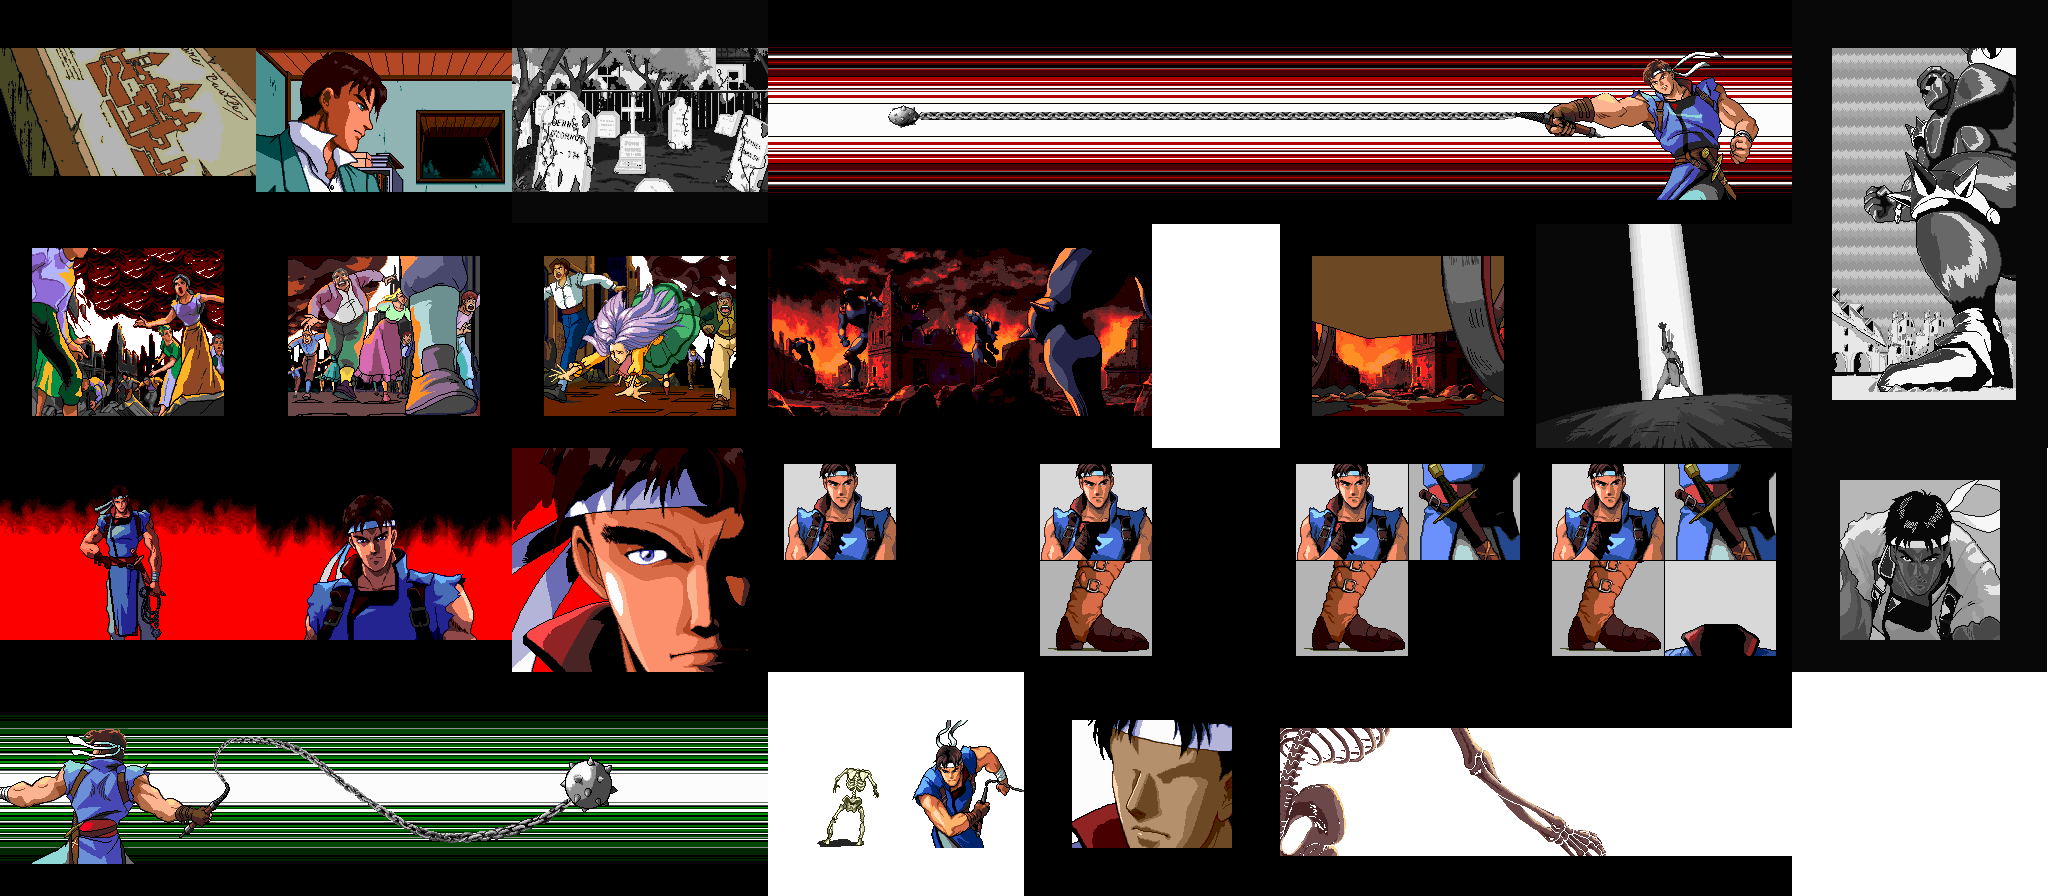
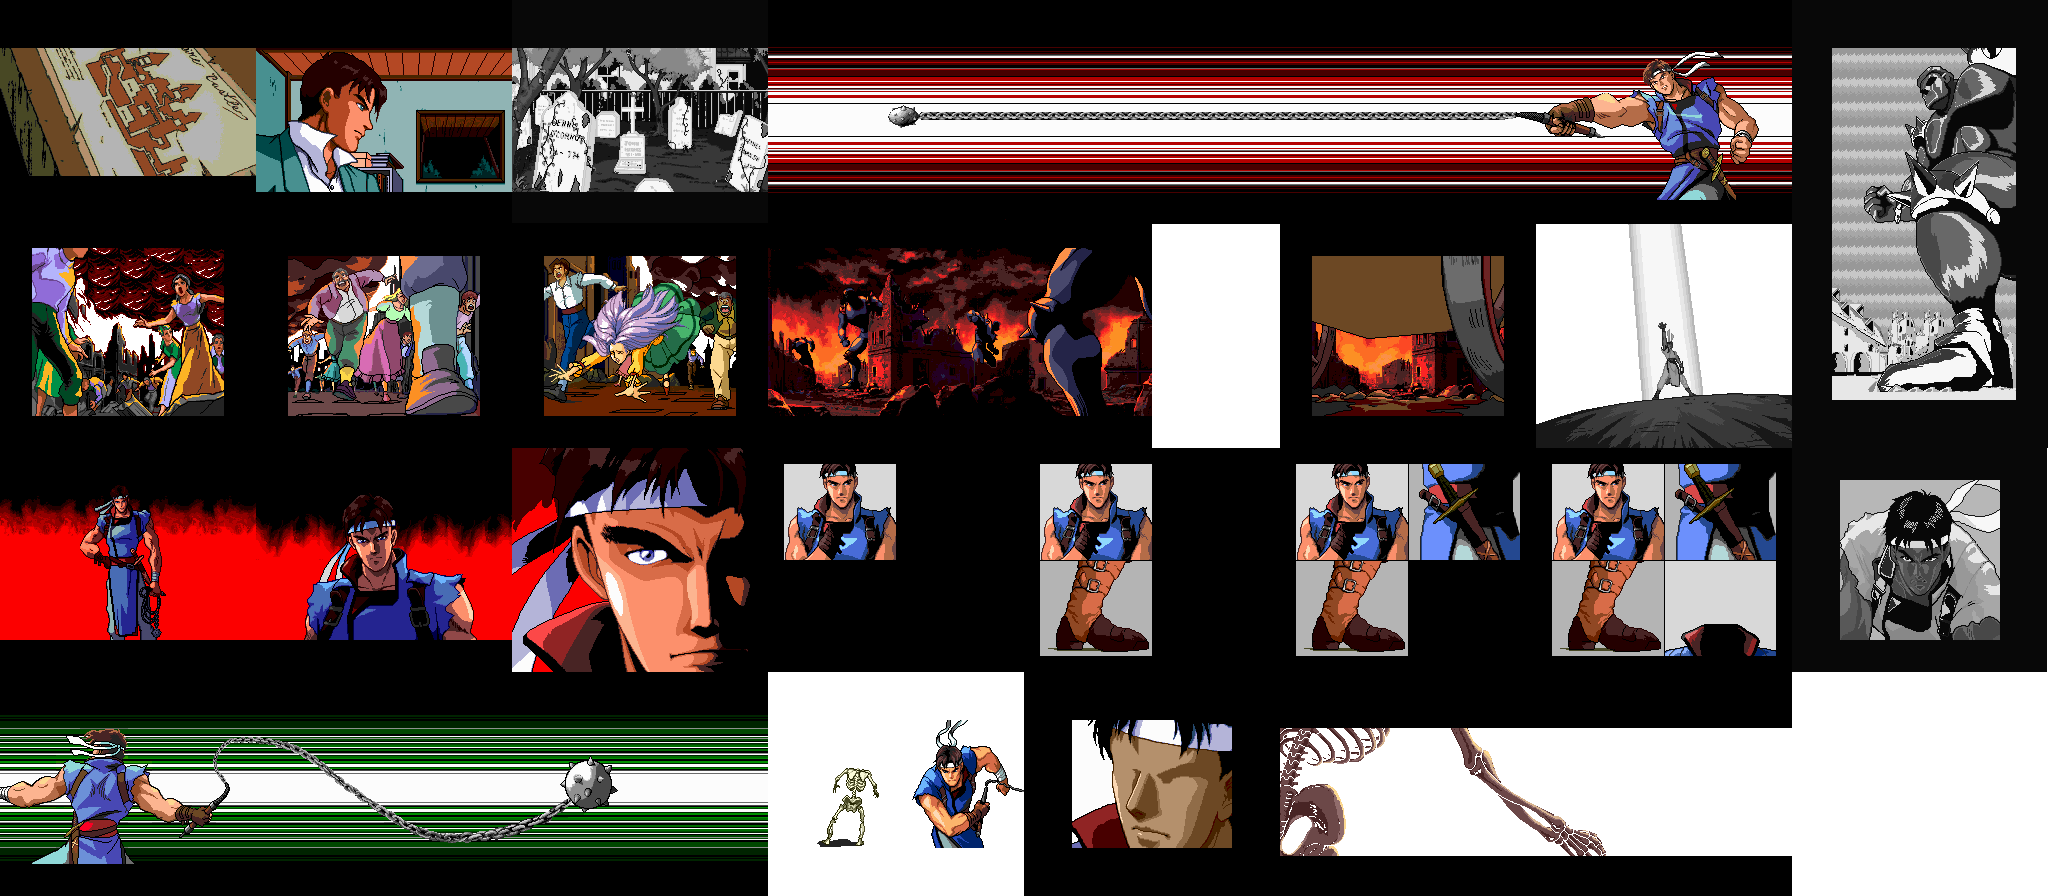
Mejorando un poco la intro

Changed region(s): [[0.75, 0.25, 0.875, 0.4688]]

diff --git a/DraculaX_PC/CoolIntro.cpp b/DraculaX_PC/CoolIntro.cpp
@@ -1,11 +1,18 @@
 #include "CoolIntro.h"
 #include "TextureManager.h"
 #include "Game.h"
+#define TIME_BETWEEN_CROSS_COLOR 64
 
 namespace {
+	const glm::vec2 crossOffsets[2] = {
+		glm::vec2(128,-32), glm::vec2(192,48)
+	};
 	const float redColors[3] = { 72 / 255.f, 108 / 255.f, 144 / 255.f };
 	const float amplitude = 16.f;
 	const float frequency = 5.f;
+	const int crossSpeeds[3] = { 8, 12, 16 };
+	const int crossYlimits[3] = { -76, -128, -176 };
+	bool crossBlack[3] = { false, false, false };
 }
 
 void CoolIntro::initChild()
@@ -427,6 +434,30 @@ void CoolIntro::initChild()
 	introSprites[WHIRLWIND]->setAnimationSpeed(0, 30);
 	introSprites[WHIRLWIND]->animatorX(0, 4, 0.25f, 0.25f, 0.f);
 	introSprites[WHIRLWIND]->changeAnimation(0);
+	introQuads[SMALL_CROSS] = TexturedQuad::createTexturedQuad(glm::vec2(0.75f, 0.5f), glm::vec2(0.8125f, 1.f), *elems, *shader);
+	introQuads[SMALL_CROSS]->setColorPalette(bgPalette);
+	introQuads[SMALL_CROSS]->setNumberPaletteAnimations(1);
+	introQuads[SMALL_CROSS]->setPaletteSpeed(0, 0);
+	introQuads[SMALL_CROSS]->addPaletteKeyframe(0, 0.475f);
+	introQuads[SMALL_CROSS]->changePaletteAnimation(0);
+	introQuads[SMALL_CROSS]->setPosition(glm::vec2(44, -16));
+	introQuads[CROSS] = TexturedQuad::createTexturedQuad(glm::vec2(0.8125f, 0.5f), glm::vec2(0.875f, 1.f), *elems, *shader);
+	introQuads[CROSS]->setColorPalette(bgPalette);
+	introQuads[CROSS]->setNumberPaletteAnimations(1);
+	introQuads[CROSS]->setPaletteSpeed(0, 0);
+	introQuads[CROSS]->addPaletteKeyframe(0, 0.475f);
+	introQuads[CROSS]->changePaletteAnimation(0);
+	introQuads[CROSS]->setPosition(glm::vec2(0, -48));
+	introQuads[BIG_CROSS] = TexturedQuad::createTexturedQuad(glm::vec2(0.875f, 0.5f), glm::vec2(1.f, 1.f), *elems, *shader);
+	introQuads[BIG_CROSS]->setColorPalette(bgPalette);
+	introQuads[BIG_CROSS]->setNumberPaletteAnimations(1);
+	introQuads[BIG_CROSS]->setPaletteSpeed(0, 0);
+	introQuads[BIG_CROSS]->addPaletteKeyframe(0, 0.475f);
+	introQuads[BIG_CROSS]->changePaletteAnimation(0);
+	introQuads[BIG_CROSS]->setPosition(glm::vec2(96, -48));
+	crossColorTimer[0] = 64;
+	crossColorTimer[1] = 16;
+	crossColorTimer[2] = 0;
 	bg.bg = sp;
 	bg.time = 54.f;
 	bg.duration = 7.f;
@@ -615,6 +646,10 @@ void CoolIntro::filmUpdate(int deltaTime)
 		}
 		introSprites[PURPLE_FIRE2]->update(deltaTime);
 		introSprites[WHIRLWIND]->update(deltaTime);
+		for (int i = 0; i < 3; i++)
+		{
+			updateCross(deltaTime, i);
+		}
 	}
 	boltTimer -= deltaTime / 1000.f;
 }
@@ -738,9 +773,14 @@ void CoolIntro::render()
 		}
 		else if (filmId == RICHTER_ULT2)
 		{
+			renderCross(0);
 			film.front().bg->render();
 			introSprites[WHIRLWIND]->render();
 			introSprites[PURPLE_FIRE2]->render();
+			renderCross(1);
+			shader->setUniform1f("paletteIndexOffset", 0.f + crossBlack[2] * 0.5f);
+			introQuads[BIG_CROSS]->render();
+			shader->setUniform1f("paletteIndexOffset", 0.f);
 		}
 		else film.front().bg->render();
 		if (blackScreenAlpha > 0) blackScreen->render();
@@ -750,6 +790,37 @@ void CoolIntro::render()
 float CoolIntro::setEndTime() const
 {
 	return 64.f;
+}
+
+void CoolIntro::updateCross(int deltaTime, int crossNum)
+{
+	introQuads[SMALL_CROSS + crossNum]->incPosition(glm::vec2(0, -crossSpeeds[crossNum]));
+	if (introQuads[SMALL_CROSS + crossNum]->getPosition().y <= crossYlimits[crossNum])
+	{
+		introQuads[SMALL_CROSS + crossNum]->incPosition(glm::vec2(0, SCREEN_HEIGHT * 2));
+	}
+	crossColorTimer[crossNum] += deltaTime;
+	if (crossColorTimer[crossNum] > TIME_BETWEEN_CROSS_COLOR)
+	{
+		crossColorTimer[crossNum] = 0;
+		crossBlack[crossNum] = !crossBlack[crossNum];
+	}
+}
+
+void CoolIntro::renderCross(int crossNum)
+{
+	shader->setUniform1f("paletteIndexOffset", 0.f + crossBlack[crossNum] * 0.5f);
+	introQuads[SMALL_CROSS + crossNum]->render();
+	introQuads[SMALL_CROSS + crossNum]->incPosition(crossOffsets[crossNum]);
+	shader->setUniform1f("frameWidth", 0.0625f);
+	shader->setUniform2f("texCoordDispl", 0.5f + 0.125f*crossNum, 0.f);
+	shader->setUniform1i("flip", true);
+	if (crossColorTimer[crossNum] * 2 > TIME_BETWEEN_CROSS_COLOR) shader->setUniform1f("paletteIndexOffset", 0.f + !crossBlack[crossNum] * 0.5f);
+	introQuads[SMALL_CROSS + crossNum]->render();
+	introQuads[SMALL_CROSS + crossNum]->incPosition(-crossOffsets[crossNum]);
+	shader->setUniform2f("texCoordDispl",0.f, 0.f);
+	shader->setUniform1i("flip", false);
+	shader->setUniform1f("paletteIndexOffset", 0.f);
 }
 
 int CoolIntro::getColorIndex(int range, float freq)

diff --git a/DraculaX_PC/TexturedQuad.cpp b/DraculaX_PC/TexturedQuad.cpp
@@ -32,7 +32,12 @@ TexturedQuad::TexturedQuad(const glm::vec2& topLeft, const glm::vec2& bottomRigh
 	this->tex = &tex;
 	this->shaderProgram = &program;
 	this->position = glm::vec2(0.f);
+	this->texCoordDispl = topLeft;
 	this->color = glm::vec4(1.f);
+	currentPaletteAnim = -1;
+	currentPaletteKeyframe = -1;
+	currentPaletteRow = -1.f;
+	timePaletteAnimation = 0.f;
 }
 
 void TexturedQuad::setPosition(const glm::vec2& pos)
@@ -55,15 +60,65 @@ void TexturedQuad::setAlpha(float aplha)
 	this->color.a = aplha;
 }
 
+void TexturedQuad::setNumberPaletteAnimations(int nPaletteAnims)
+{
+	palettesAnims.clear();
+	palettesAnims.resize(nPaletteAnims);
+}
+
+void TexturedQuad::setPaletteSpeed(int paletteAnimId, int rowsPerSec)
+{
+	if (paletteAnimId < int(palettesAnims.size()))
+		palettesAnims[paletteAnimId].millisecsPerKeyframe = 1000.f / rowsPerSec;
+}
+
+void TexturedQuad::addPaletteKeyframe(int paletteAnimId, float paletteRow)
+{
+	if (paletteAnimId < int(palettesAnims.size()))
+		palettesAnims[paletteAnimId].paletteRows.emplace_back(paletteRow);
+}
+
+void TexturedQuad::setPaletteTransition(int paletteAnimFrom, int paletteAnimTo)
+{
+	if (paletteAnimFrom < int(palettesAnims.size()) && paletteAnimTo < int(palettesAnims.size()))
+	{
+		palettesAnims[paletteAnimFrom].nextPaletteAnim = paletteAnimTo;
+	}
+}
+
+void TexturedQuad::changePaletteAnimation(int paletteAnimId)
+{
+	if (paletteAnimId < int(palettesAnims.size()))
+	{
+		currentPaletteAnim = paletteAnimId;
+		currentPaletteKeyframe = 0;
+		timePaletteAnimation = 0.f;
+		currentPaletteRow = palettesAnims[paletteAnimId].paletteRows[0];
+		paletteAnimationDoneOnce = false;
+	}
+}
+
 void TexturedQuad::render() const
 {
 	glm::mat4 modelview = glm::mat4(1.f);
 	modelview = glm::translate(modelview, glm::vec3(position.x, position.y, 0.f));
 	shaderProgram->setUniformMatrix4f("modelview", modelview);
+	//shaderProgram->setUniform2f("texCoordDispl", texCoordDispl.x, texCoordDispl.y);
 	shaderProgram->setUniform4f("color", color.x, color.y, color.z, color.a);
+	if (palette)
+	{
+		shaderProgram->setUniform1i("usePalette", true);
+		glActiveTexture(GL_TEXTURE1);
+		palette->use();
+		shaderProgram->setUniform1i("paletteLUT", 1);
+		shaderProgram->setUniform1f("currentPaletteRow", currentPaletteRow);
+	}
+	glActiveTexture(GL_TEXTURE0);
 	tex->use();
+	shaderProgram->setUniform1i("tex", 0);
 	glBindVertexArray(vao);
 	glDrawArrays(GL_TRIANGLES, 0, 6);
+	shaderProgram->setUniform1i("usePalette", false);
 }
 
 void TexturedQuad::free()
@@ -71,3 +126,9 @@ void TexturedQuad::free()
 	glDeleteBuffers(1, &vbo);
 }
 
+bool TexturedQuad::paletteAnimationEnded()
+{
+	bool ret = paletteAnimationDoneOnce && currentPaletteKeyframe == 0;
+	//paletteAnimationDoneOnce = false;
+	return ret;
+}

diff --git a/DraculaX_PC/TexturedQuad.h b/DraculaX_PC/TexturedQuad.h
@@ -5,6 +5,7 @@
 #include <glm/glm.hpp>
 #include "Texture.h"
 #include "ShaderProgram.h"
+#include "PaletteKeyframes.h"
 
 
 class TexturedQuad
@@ -12,26 +13,44 @@ class TexturedQuad
 
 private:
 	TexturedQuad(const glm::vec2& topLeft, const glm::vec2& bottomRight, Texture& tex, ShaderProgram& program);
+	bool paletteAnimationEnded();
 
 public:
 	// Textured quads can only be created inside an OpenGL context
 	static TexturedQuad* createTexturedQuad(const glm::vec2& topLeft, const glm::vec2& bottomRight, Texture& tex, ShaderProgram& program);
-	void setPosition(const glm::vec2& pos);
 	void incPosition(const glm::vec2 & inc);
+	void setPosition(const glm::vec2& pos);
 	void setColor(const glm::vec3& color);
 	void setAlpha(float alpha);
+	//color palette animation methods
+	void setColorPalette(Texture* palette) { this->palette = palette; }
+	void setNumberPaletteAnimations(int nPaletteAnims);
+	void setPaletteSpeed(int paletteAnimId, int rowsPerSec);
+	void addPaletteKeyframe(int paletteAnimId, float paletteRow);
+	void setPaletteTransition(int paletteAnimFrom, int paletteAnimTo);
+	void setPaletteRow(float paletteRow) { currentPaletteRow = paletteRow; }
+	void changePaletteAnimation(int paletteAnimId);
+	//
 	void render() const;
 	void free();
+
 	const glm::vec2& getPosition() { return position; }
 
 private:
+	vector<PaletteKeyframes> palettesAnims;
 	glm::vec4 color;
 	glm::vec2 position;
+	glm::vec2 texCoordDispl;
 	GLuint vao;
 	GLuint vbo;
 	GLint posLocation, texCoordLocation;
 	Texture* tex;
+	Texture* palette = nullptr;
 	ShaderProgram* shaderProgram;
+	int currentPaletteAnim, currentPaletteKeyframe;
+	float currentPaletteRow;
+	float timePaletteAnimation;
+	bool paletteAnimationDoneOnce;
 };
 
 

diff --git a/DraculaX_PC/CoolIntro.h b/DraculaX_PC/CoolIntro.h
@@ -14,6 +14,8 @@ protected:
 	float setEndTime() const override;
 
 private:
+	void updateCross(int deltaTime, int crossNum);
+	void renderCross(int crossNum);
 	int getColorIndex(int range, float freq);
 
 private:
@@ -25,7 +27,7 @@ private:
 	enum Quads
 	{
 		HAND, RICHTER1, SKY, TREES_FAR, TREES_CLOSE, CAR_TOP, CAR, GRASS, SKELETON_CEMENTERY, ANNETTE_EYES, ANNETTE_MOUTH,
-		BOOT, BOOT2, RICHTER2, RICHTER3, SKELETON_AMBUSH, RIGHT_HAND, LEFT_HAND, COUNT
+		BOOT, BOOT2, RICHTER2, RICHTER3, SKELETON_AMBUSH, RIGHT_HAND, LEFT_HAND, SMALL_CROSS, CROSS, BIG_CROSS, COUNT
 	};
 	enum Sprites
 	{
@@ -51,6 +53,7 @@ private:
 	int shakeAngleStep;
 	int shakeDist;
 	int shakeAngle = 0;
+	int crossColorTimer[3];
 	bool shaking = false;
 	bool shaked = false;
 	bool renderBigBolt = false;

diff --git a/DraculaX_PC/Sprite.h b/DraculaX_PC/Sprite.h
@@ -39,6 +39,7 @@ public:
 	void setTransition(int animFrom, int animTo);
 	void setKeyframe(int frame) { currentKeyframe = frame; }
 	void changeAnimation(int animId);
+	//color palette animation methods
 	void setColorPalette(Texture* palette) { this->palette = palette; }
 	void setNumberPaletteAnimations(int nPaletteAnims);
 	void setPaletteSpeed(int paletteAnimId, int rowsPerSec);
@@ -46,6 +47,7 @@ public:
 	void setPaletteTransition(int paletteAnimFrom, int paletteAnimTo);
 	void setPaletteRow(float paletteRow) { currentPaletteRow = paletteRow; }
 	void changePaletteAnimation(int paletteAnimId);
+	//
 	void setAngleDegrees(float angleDegrees);
 	void setCenter(const glm::vec2& center);
 	void setColor(const glm::vec3 & color);

diff --git a/DraculaX_PC/Level1Sc1.cpp b/DraculaX_PC/Level1Sc1.cpp
@@ -50,7 +50,7 @@ void Level1Sc1::init(Player& player, GUI& gui, ShaderProgram& spriteShader, Shad
 
 	projections.resize(3);
 
-	//SoundEngine::instance().playStageSong(BLOODLINES);
+	SoundEngine::instance().playStageSong(BLOODLINES);
 	player.lockInput();
 	gui.newLevel();
 }
